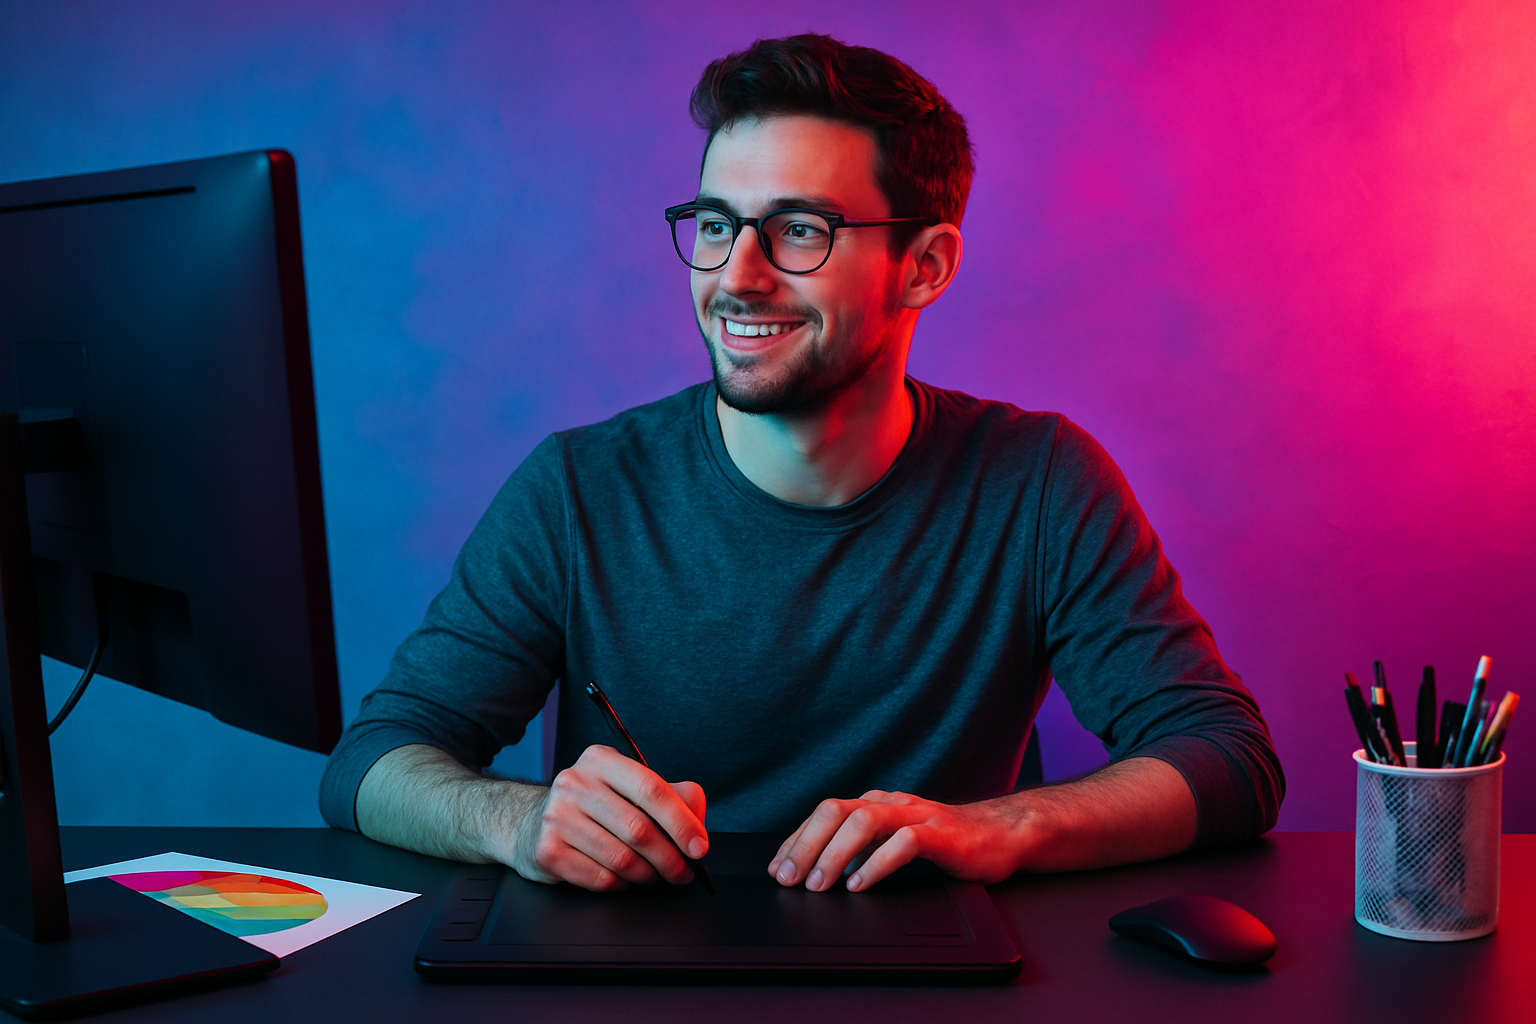
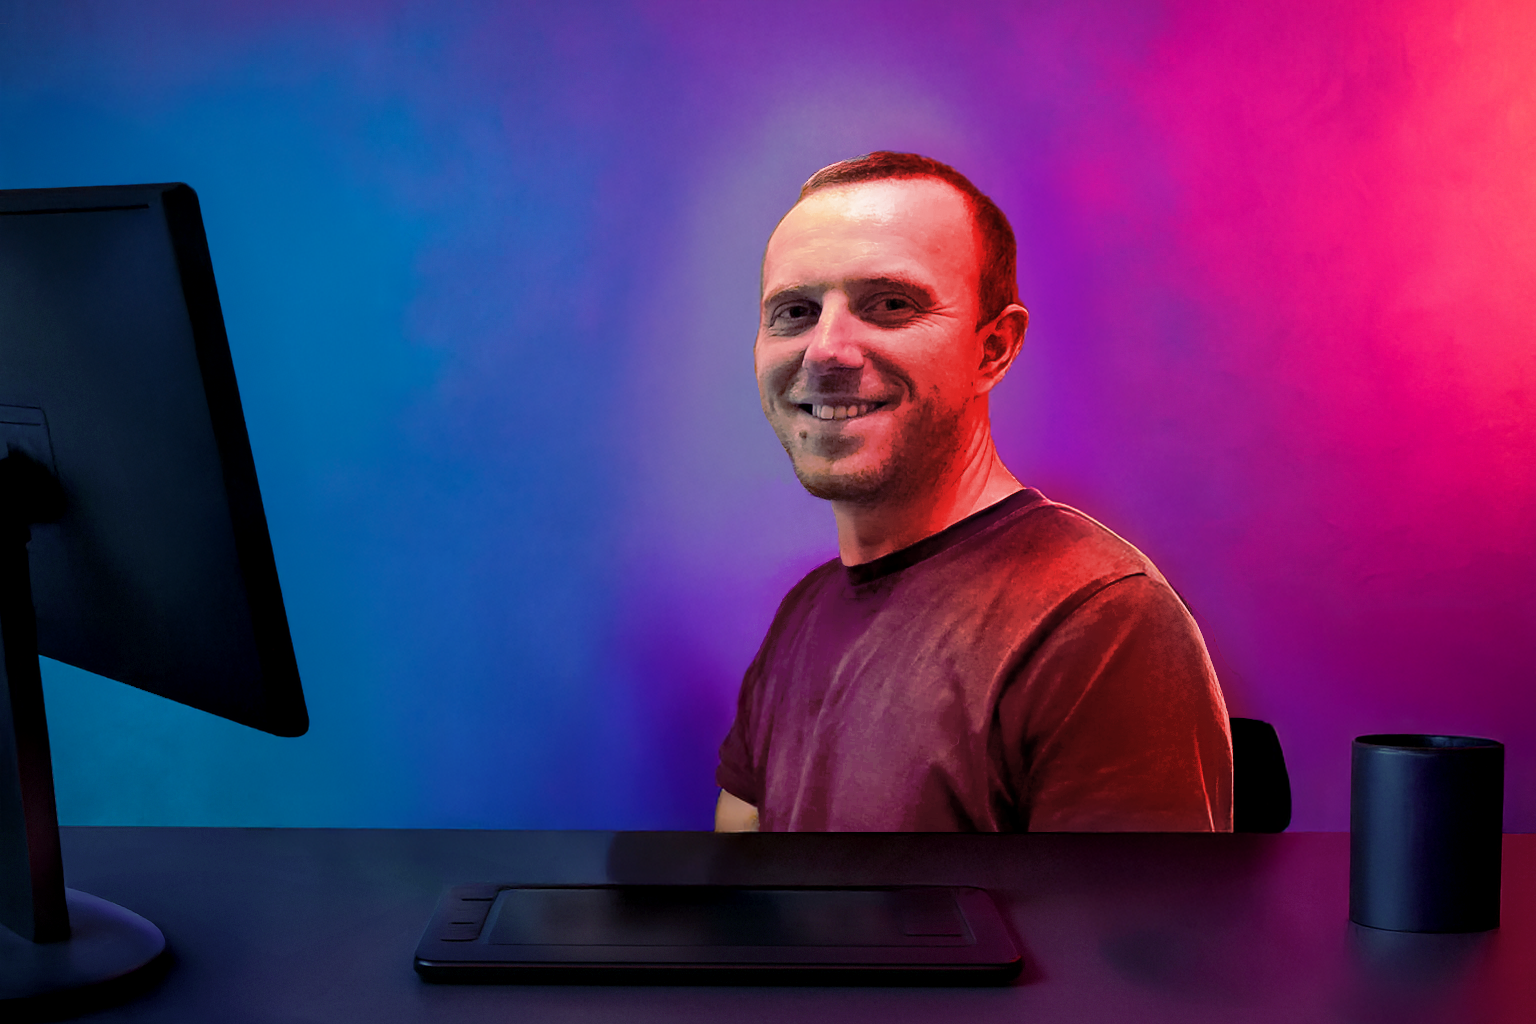
Add files via upload

diff --git a/moja strona6.html b/moja strona6.html
@@ -81,12 +81,25 @@
       display:flex;align-items:center;justify-content:center;text-align:center;overflow:hidden;
     }
     .hero .inner{
-      max-width:1100px;padding:36px;border-radius:16px;background:linear-gradient(180deg, rgba(0,0,0,0.22), rgba(0,0,0,0.08)));
+      max-width:1100px;padding:36px;border-radius:16px;background:linear-gradient(180deg, rgba(0,0,0,0.0), rgba(0, 0, 0, 0));
       transform-origin:center;animation:fadeUp .7s ease both;
     }
     @keyframes fadeUp{ from{opacity:0;transform:translateY(12px)} to{opacity:1;transform:none} }
-    .hero h1{ font-size:clamp(78px,6vw,74px);margin:0;   line-height: 1.1 }
-    .hero p{ font-size:clamp(18px,6vw,24px);margin-top:12px;font-weight:400;text-transform:uppercase }
+.hero h1 {
+  font-size: clamp(78px, 6vw, 74px);
+  margin: 0;
+  line-height: 1.1;
+  animation: pulseText 5s ease-in-out infinite;
+}
+
+@keyframes pulseText {
+  0%, 100% {
+    transform: scale(1);
+  }
+  50% {
+    transform: scale(1.2); /* lekko większe, np. 3% */
+  }
+}    .hero p{ font-size:clamp(18px,6vw,24px);margin-top:12px;font-weight:400;text-transform:uppercase }
 
     .intro{ max-width:var(--max-width);margin:36px auto;padding:0 20px;text-align:center }
     .intro h2{ font-size:clamp(90px,3.6vw,34px);line-height:1.18;animation:fadeUp .7s ease both }
@@ -163,9 +176,38 @@
   object-fit: cover; /* dopasowanie wypełniające */
   display: block;
 }
-    .section-image-text{ display:flex;align-items:center;justify-content:center;padding:40px 20px;background:url('https://images.unsplash.com/photo-1504384308090-c894fdcc538d?ixlib=rb-4.0.3&auto=format&fit=crop&w=1950&q=80') center/cover no-repeat;color:var(--bg);border-radius:19px;margin:18px 20px }
-    .section-image-text .content{ max-width:900px;background:rgba(0,0,0,0.45);padding:28px;border-radius:12px;color:#fff;animation:fadeUp .7s both }
+.section-image-text {
+  display: flex;
+  align-items: center;
+  justify-content: center;
+  padding: 40px 20px;
+  background: url('tło side image.png') center/cover no-repeat;
+  animation: bgMove 4s linear infinite alternate;
+  color: var(--bg);
+  border-radius: 19px;
+  margin: 18px 20px;
+}
 
+@keyframes bgMove {
+  0% {
+    background-position: 10% 0%;
+  }
+  100% {
+    background-position: 100% 277.32%; /* poprawiłem 1773.2% na 177.32% */
+  }
+}
+
+.section-image-text .content {
+  max-width: 900px;
+  background: rgba(0, 0, 0, 0);
+  padding: 28px;
+  border-radius: 12px;
+  color: white;
+  animation: fadeUp .7s both;
+  text-shadow:
+    0 0 6px black,
+    0 0 6px black;
+}
     #about{ max-width:var(--max-width);margin:40px auto;padding:20px; display:grid; grid-template-columns: 1fr; gap:20px }
     .about-row{ display:flex;gap:20px;align-items:center;flex-wrap:wrap }
     .about-photo{ width:220px;border-radius:12px;box-shadow:0 10px 30px rgba(0,0,0,0.08) }
@@ -328,12 +370,15 @@
     </div>
   </section>
 
-  <section class="section-image-text">
-    <div class="content">
+<section class="section-image-text">
+  <div class="content">
+
+    <span class="main-text">
       <h2>Zróbmy razem dobry projekt!</h2>
       <p>Od pomysłu, przez projekt graficzny, po wdrożenie — oferuję kompleksowe podejście, które gwarantuje efektowny i&nbsp;skuteczny rezultat.</p>
-    </div>
-  </section>
+    </span>
+  </div>
+</section>
 
   <section id="about">
     <div class="about-row">
@@ -346,7 +391,7 @@
 
       <div class="about-cards">
       <div class="about-card">
-        <img src="https://images.unsplash.com/photo-1498050108023-c5249f4df085?auto=format&fit=crop&w=800&q=80" alt="Oryginalne strony internetowe">
+        <img src="lapp1.png" alt="Oryginalne strony internetowe">
         <div>
           <h3>Oryginalne strony internetowe</h3>
           <p class="muted">Projekty które przyciągają uwagę — nietypowe układy i&nbsp;efekty animacji.</p>
